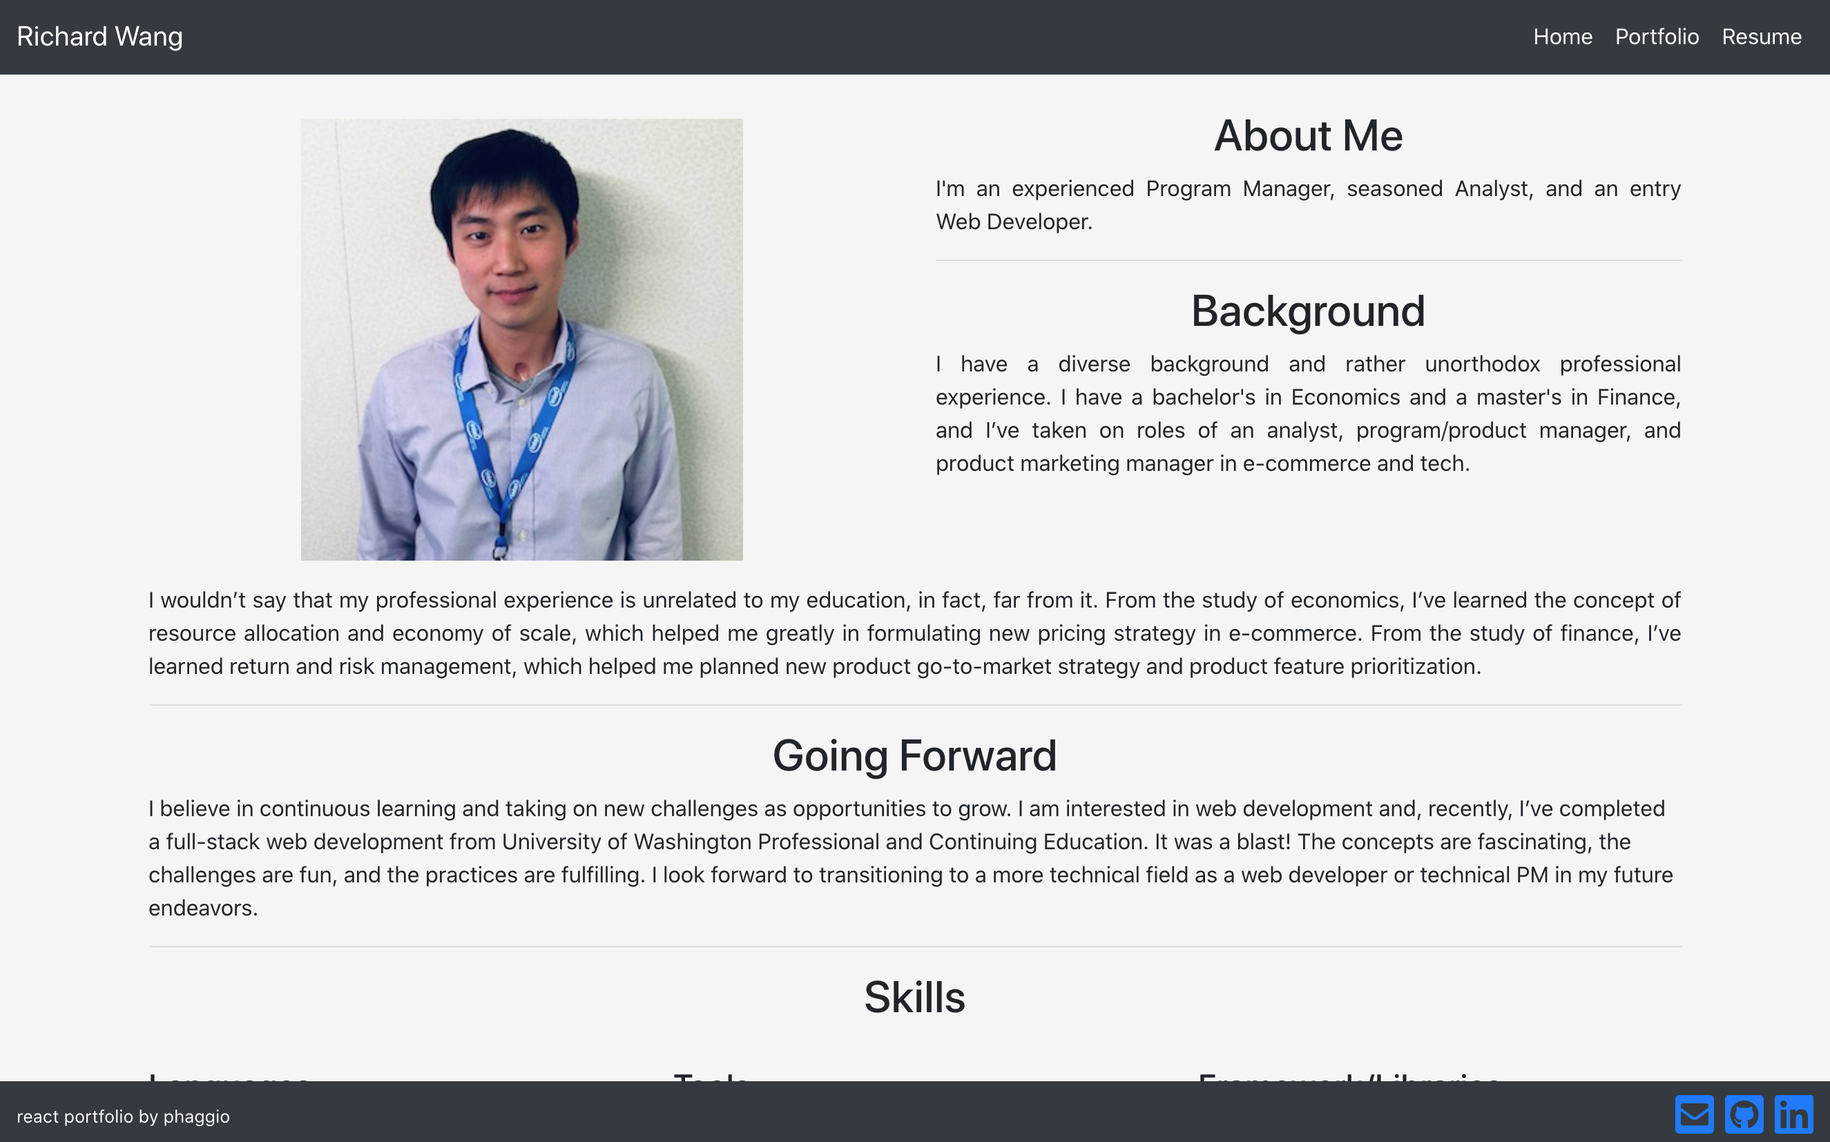
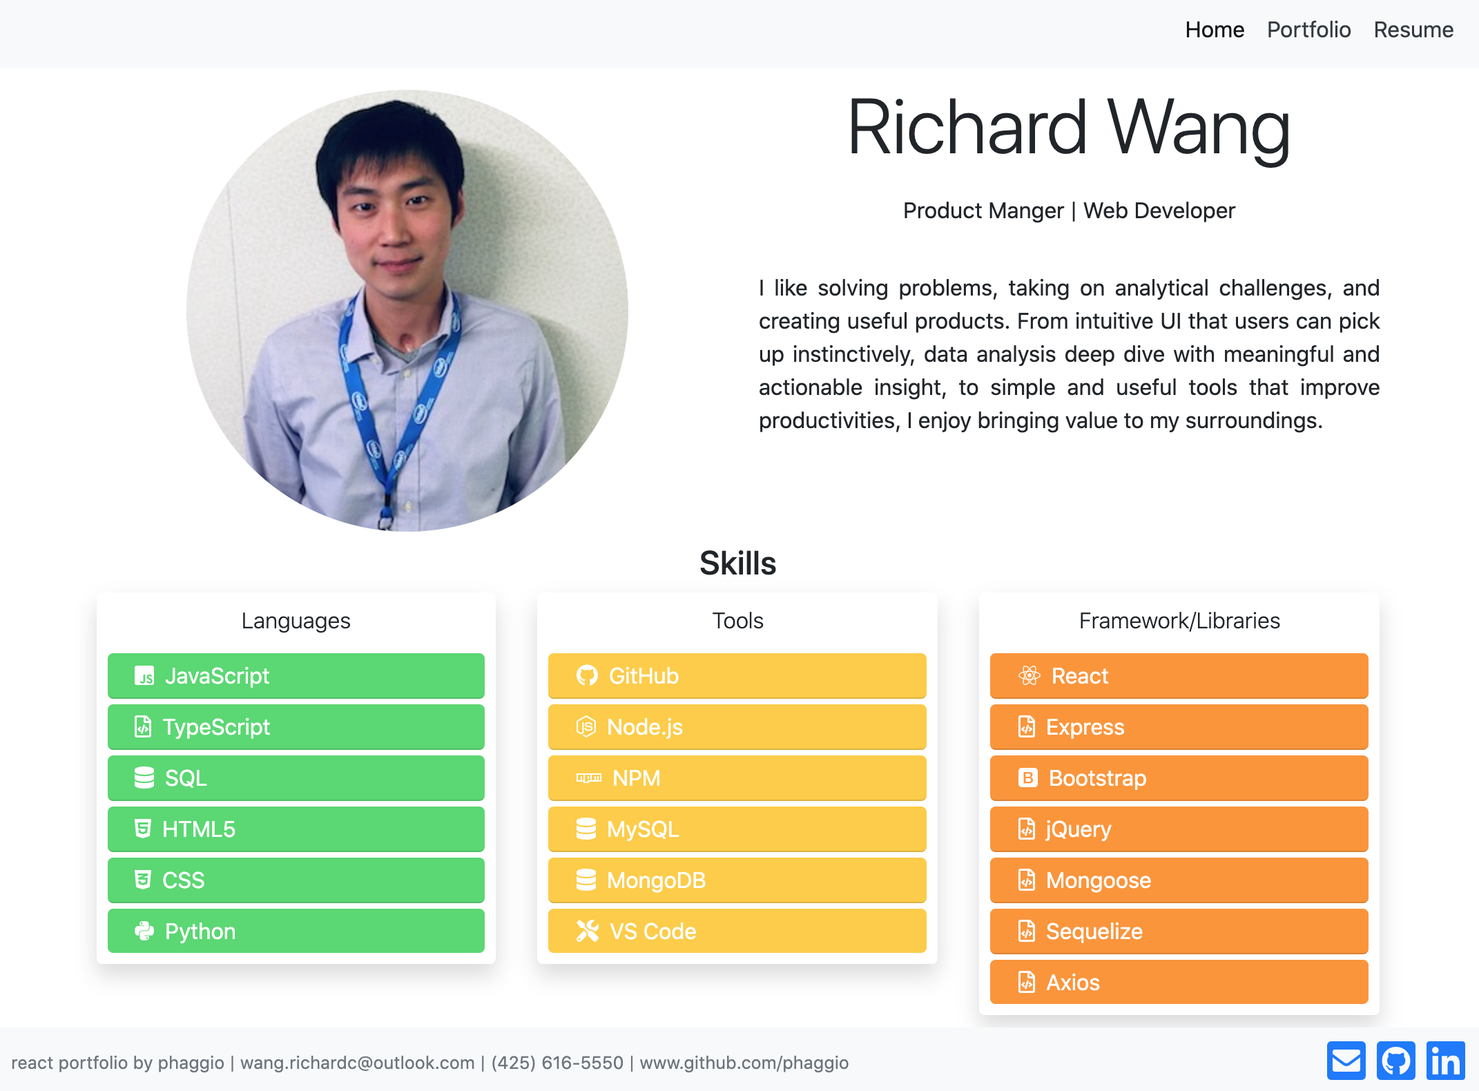
Updates

diff --git a/static/js/main.678d88fd.chunk.js b/static/js/main.678d88fd.chunk.js
@@ -1,0 +1,2 @@
+(this["webpackJsonpreact-portfolio"]=this["webpackJsonpreact-portfolio"]||[]).push([[0],{14:function(e){e.exports=JSON.parse('[{"email":"wang.richardc@outlook.com","linkedIn":"https://www.linkedin.com/in/richard-c-wang/","github":"https://github.com/phaggio","portfolio":"https://phaggio.github.io/react-portfolio/"}]')},15:function(e){e.exports=JSON.parse('[{"aboutMe":"An experienced Program Manager, seasoned Analyst, and entry Web Developer.","background1":"I like solving problems, taking on analytical challenges, and creating useful products. From intuitive UI that users can pick up instinctively, data analysis deep dive with meaningful and actionable insight, to simple and useful tools that improve productivities, I enjoy bringing value to my surroundings.","languages":[{"name":"JavaScript","type":"language","icon":"fab fa-js-square"},{"name":"TypeScript","type":"language","icon":"far fa-file-code"},{"name":"SQL","type":"language","icon":"fas fa-database"},{"name":"HTML5","type":"language","icon":"fab fa-html5"},{"name":"CSS","type":"language","icon":"fab fa-css3-alt"},{"name":"Python","type":"language","icon":"fab fa-python"}],"tools":[{"name":"GitHub","type":"tool","icon":"fab fa-github"},{"name":"Node.js","type":"tool","icon":"fab fa-node-js"},{"name":"NPM","type":"tool","icon":"fab fa-npm"},{"name":"MySQL","type":"tool","icon":"fas fa-database"},{"name":"MongoDB","type":"tool","icon":"fas fa-database"},{"name":"VS Code","type":"tool","icon":"fas fa-tools"}],"libraries":[{"name":"React","type":"framework","icon":"fab fa-react"},{"name":"Express","type":"framework","icon":"far fa-file-code"},{"name":"Bootstrap","type":"framework","icon":"fab fa-bootstrap"},{"name":"jQuery","type":"framework","icon":"far fa-file-code"},{"name":"Mongoose","type":"framework","icon":"far fa-file-code"},{"name":"Sequelize","type":"framework","icon":"far fa-file-code"},{"name":"Axios","type":"framework","icon":"far fa-file-code"}]}]')},16:function(e){e.exports=JSON.parse('[{"name":"resume","link":"https://docs.google.com/gview?url=https://github.com/phaggio/resume/raw/master/Richard-Wang-dev.pdf&embedded=true","download":"https://github.com/phaggio/resume/raw/master/Richard-Wang-dev.pdf"}]')},24:function(e,a,t){e.exports=t(35)},35:function(e,a,t){"use strict";t.r(a);var n=t(0),o=t.n(n),r=t(20),l=t.n(r),c=(t(29),t(30),t(7)),s=t(5),i=t(11),m=t.n(i),p=function(){var e=function(){m()(".navbar-collapse").collapse("hide")};return o.a.createElement("nav",{className:"navbar navbar-expand-sm sticky-top navbar-light bg-light",role:"navigation"},o.a.createElement("button",{className:"navbar-toggler",type:"button","data-toggle":"collapse","data-target":"#navbarSupportedContent","aria-controls":"navbarSupportedContent","aria-expanded":"false","aria-label":"Toggle navigation"},o.a.createElement("span",{className:"navbar-toggler-icon"})),o.a.createElement("div",{className:"collapse navbar-collapse",id:"navbarSupportedContent"},o.a.createElement("div",{className:"navbar-nav ml-auto",role:"navigation"},o.a.createElement(c.b,{className:"nav-item nav-link text-dark",onClick:e,to:"/"},"Home"),o.a.createElement(c.b,{className:"nav-item nav-link text-dark",onClick:e,to:"/portfolio/"},"Portfolio"),o.a.createElement(c.b,{className:"nav-item nav-link text-dark",onClick:e,to:"/resume/"},"Resume"))))},f=t(14),d=f?f[0]:{},u=function(){return o.a.createElement("nav",{className:"navbar fixed-bottom bg-light justify-content-between"},o.a.createElement("small",{className:"text-secondary text-center"},"react portfolio by phaggio | wang.richardc@outlook.com | (425) 616-5550 | www.github.com/phaggio"),o.a.createElement("div",{className:"d-flex"},o.a.createElement("a",{className:"nav-item nav-link p-0 ml-2",href:"mailto:".concat(d.email)},o.a.createElement("i",{className:"fas fa-envelope-square fa-2x"})),o.a.createElement("a",{className:"nav-item nav-link p-0 ml-2",href:d.github,rel:"noopener noreferrer",target:"_blank"},o.a.createElement("i",{className:"fab fa-github-square fa-2x"})),o.a.createElement("a",{className:"nav-item nav-link p-0 ml-2",href:d.linkedIn,rel:"noopener noreferrer",target:"_blank"},o.a.createElement("i",{className:"fab fa-linkedin fa-2x"}))))},g=function(e){var a=function(e){switch(e){case"language":return{backgroundColor:"#53d769",color:"white"};case"framework":return{backgroundColor:"#fd9426",color:"white"};case"tool":return{backgroundColor:"#fecb2e",color:"white"}}}(e.type);return o.a.createElement("li",{className:"list-group-item mt-1 rounded py-1",style:a,key:e.name},o.a.createElement("i",{className:"".concat(e.icon," mr-2")}),e.name)},h=t(15),b={maxHeight:"30%",width:"30%%"},y=function(){var e=h?h[0]:{};return o.a.createElement("div",{className:"container pb-5"},o.a.createElement("div",{className:"row pb-5"},o.a.createElement("div",{className:"col-12 col-md-6"},o.a.createElement("div",{className:"d-flex justify-content-center mt-2"},o.a.createElement("img",{className:"rounded-circle py-2",alt:"profile",src:"".concat("/react-portfolio","/assets/images/profile.jpeg"),style:b}))),o.a.createElement("div",{className:"col-12 col-md-6"},o.a.createElement("div",{className:"d-flex flex-column mt-2"},o.a.createElement("div",{className:"text-center display-4"},"Richard Wang"),o.a.createElement("div",{className:"py-2"},o.a.createElement("div",{className:"text-center py-2"},o.a.createElement("p",null,"Product Manger | Web Developer")),o.a.createElement("div",{className:"pt-2"},o.a.createElement("p",{className:"text-justify"},e.background1),o.a.createElement("p",{className:"text-justify"},e.background2))))),o.a.createElement("div",{className:"col-12"},o.a.createElement("div",{className:"d-flex justify-content-center"},o.a.createElement("label",{className:"h4"},"Skills"))),o.a.createElement("div",{className:"col-12 col-md-4"},o.a.createElement("div",{className:"d-flex flex-column align-items-center p-2 shadow rounded"},o.a.createElement("label",{className:"text-center text-md-left font-weight-light"},"Languages"),o.a.createElement("ul",{className:"list-group list-group-flush w-100"},e.languages.map((function(e){return o.a.createElement(g,{key:e.name,type:e.type,icon:e.icon,name:e.name})}))))),o.a.createElement("div",{className:"col-12 col-md-4"},o.a.createElement("div",{className:"d-flex flex-column align-items-center p-2 shadow rounded"},o.a.createElement("label",{className:"text-center text-md-left font-weight-light"},"Tools"),o.a.createElement("ul",{className:"list-group list-group-flush w-100"},e.tools.map((function(e){return o.a.createElement(g,{key:e.name,type:e.type,icon:e.icon,name:e.name})}))))),o.a.createElement("div",{className:"col-12 col-md-4"},o.a.createElement("div",{className:"d-flex flex-column align-items-center p-2 shadow rounded "},o.a.createElement("label",{className:"text-center text-md-left font-weight-light"},"Framework/Libraries"),o.a.createElement("ul",{className:"list-group list-group-flush w-100"},e.libraries.map((function(e){return o.a.createElement(g,{key:e.name,type:e.type,icon:e.icon,name:e.name})})))))))},v=t(23),E={minWidth:"120px",backgroundColor:"#5fc9f8",color:"white"},k=function(e){return o.a.createElement("div",{className:"d-flex flex-column justify-content-center mx-1 mx-lg-0 my-lg-1 btn btn-sm",style:E,onClick:function(){return e.pressed(e.index)}},o.a.createElement("label",{className:"m-0 p-1 text-wrap"},e.name),o.a.createElement("small",{className:"d-none d-lg-block text-left"},e.subtitle))},w={height:"100%",width:"100%"},N=function(e){return o.a.createElement("div",null,o.a.createElement("div",{className:"row pb-5"},o.a.createElement("div",{className:"col-12"},o.a.createElement("div",{className:"d-none d-sm-block display-4 text-center"},e.project.name),o.a.createElement("div",{className:"d-block d-sm-none h3 text-center"},e.project.name),o.a.createElement("hr",null),o.a.createElement("p",{className:"mt-2"},e.project.description),e.project.note?o.a.createElement("p",{className:"mt-2"},e.project.note):"",o.a.createElement("hr",{className:"d-block"})),o.a.createElement("div",{className:"col-12 col-md-6 col-lg-7"},o.a.createElement("div",{className:"shadow rounded p-2"},o.a.createElement("label",{className:"font-weight-light"},"Screenshot"),o.a.createElement("img",{style:w,alt:"".concat(e.project.name," screenshot"),src:"".concat("/react-portfolio").concat(e.project.imgURL)}))),o.a.createElement("div",{className:"col-12 col-md-6 col-lg-5"},o.a.createElement("div",{className:"mb-sm-2 shadow rounded p-2"},o.a.createElement("label",{className:"font-weight-light"},"Links:"),o.a.createElement("div",{className:"d-flex flex-column align-items-center"},e.project.link?o.a.createElement("a",{className:"my-1 btn btn-primary w-75",rel:"noopener noreferrer",href:e.project.link,target:"_blank"},o.a.createElement("div",{className:"d-flex justify-content-center align-items-center"},o.a.createElement("i",{className:"fas fa-window-maximize"}),o.a.createElement("p",{className:"p-0 my-0 ml-2"},"Application"))):"",o.a.createElement("a",{className:"my-1 btn btn-info w-75",rel:"noopener noreferrer",href:e.project.github,target:"_blank"},o.a.createElement("div",{className:"d-flex justify-content-center align-items-center"},o.a.createElement("i",{className:"fab fa-github-square"}),o.a.createElement("p",{className:"p-0 my-0 ml-2"},"GitHub Page"))))),o.a.createElement("div",{className:"shadow rounded p-2"},o.a.createElement("label",{className:"font-weight-light"},"Technologies:"),o.a.createElement("ul",{className:"list-group list-group-flush"},e.project.technologies?e.project.technologies.map((function(e){return o.a.createElement(g,{key:e.name,name:e.name,icon:e.icon,type:e.type})})):"")))))},x=t(9),j={maxHeight:"80vh",overflowX:"auto",overflowY:"auto"},S=function(){var e=Object(n.useState)(x[0]),a=Object(v.a)(e,2),t=a[0],r=a[1],l=function(e){var a=x[e];r(a)};return o.a.createElement("div",{className:"container pb-5"},o.a.createElement("div",{className:"row"},o.a.createElement("div",{className:"col-12 d-lg-none"},o.a.createElement("div",{className:"d-flex flex-column justify-content-center mt-4"},o.a.createElement("label",{className:"text-dark font-weight-light text-center"},"Projects"),o.a.createElement("div",{className:"d-flex",style:j},x.map((function(e,a){return o.a.createElement(k,{key:e.name,index:a,name:e.name,subtitle:e.subtitle,pressed:l})}))))),o.a.createElement("div",{className:"d-none d-lg-block col-lg-3 col-xl-3"},o.a.createElement("div",{className:"d-flex flex-column mt-4"},o.a.createElement("label",{className:"text-dark font-weight-light"},"Projects:"),o.a.createElement("div",{className:"d-flex flex-column align-items-center",style:j},x.map((function(e,a){return o.a.createElement(k,{key:e.name,index:a,name:e.name,subtitle:e.subtitle,pressed:l})}))))),o.a.createElement("div",{className:"col-12 col-lg-9 col-xl-9"},o.a.createElement("div",{className:"mt-4"},o.a.createElement(N,{project:t})))))},R=t(16),T={height:"80vh",width:"100%"},L=function(){return o.a.createElement("div",{className:"container vh-75"},o.a.createElement("div",{className:"row mt-2 pb-5"},o.a.createElement("div",{className:"embed-responsive embed-responsive-4by3 z-depth-1-half",style:T},o.a.createElement("iframe",{className:"embed-responsive-item",src:R[0].link,title:"Richard Wang"})),o.a.createElement("div",{className:"btn btn-primary bt-sm mt-1 mb-5",href:R[0].download},"Download")))};var C=function(){return o.a.createElement(c.a,null,o.a.createElement(p,null),o.a.createElement(s.c,null,o.a.createElement(s.a,{exact:!0,path:"/",component:y}),o.a.createElement(s.a,{exact:!0,path:"/portfolio",component:S}),o.a.createElement(s.a,{exact:!0,path:"/resume",component:L})),o.a.createElement(u,null))};Boolean("localhost"===window.location.hostname||"[::1]"===window.location.hostname||window.location.hostname.match(/^127(?:\.(?:25[0-5]|2[0-4][0-9]|[01]?[0-9][0-9]?)){3}$/));l.a.render(o.a.createElement(o.a.StrictMode,null,o.a.createElement(C,null)),document.getElementById("root")),"serviceWorker"in navigator&&navigator.serviceWorker.ready.then((function(e){e.unregister()})).catch((function(e){console.error(e.message)}))},9:function(e){e.exports=JSON.parse('[{"name":"Project Tracker","subtitle":"A MERN stack web application to track project progress.","description":"This is a full stack web application, where users can track the progress of their projects. User can create project and assign various type of work items to it. Furthermore, work items can be assigned to users in the database.","note":"The application is developed using TypeScript. It is hosted on Heroku. The database is connected to cloud.mongodb.com","link":"https://phaggio-project-tracker.herokuapp.com/","github":"https://github.com/phaggio/project-tracker","imgURL":"/assets/images/projects/project-tracker.png","technologies":[{"name":"TypeScript","type":"language","icon":"fab fa-js-square"},{"name":"MongoDB","type":"tool","icon":"fas fa-database"},{"name":"Express.js","type":"framework","icon":"far fa-file-code"},{"name":"React","type":"framework","icon":"fab fa-react"},{"name":"Node.js","type":"tool","icon":"fab fa-node-js"},{"name":"Bootstrap","type":"framework","icon":"fab fa-bootstrap"},{"name":"Font Awesome","type":"framework","icon":"fab fa-font-awesome"}]},{"name":"Simple Weather","subtitle":"A installable progressive web app built using React.js.","description":"This is a single page app, where user can check weather condition of a city or current location. This is a progressive web app, where user can install this app on to their mobile or desktop devices. The app also offers unit type preference and dark mode in the settings.","note":"Click on the plus (\'+\') button in browser search bar to install the app. If you\'re using it on mobile device, make sure you allow your browser to use your current geo-location.","link":"https://phaggio.github.io/simple-weather/","github":"https://github.com/phaggio/simple-weather","imgURL":"/assets/images/projects/simple-weather.png","technologies":[{"name":"JavaScript","type":"language","icon":"fab fa-js-square"},{"name":"React","type":"framework","icon":"fab fa-react"},{"name":"Moment.js","type":"framework","icon":"far fa-file-code"},{"name":"Bootstrap","type":"framework","icon":"fab fa-bootstrap"},{"name":"LocalStorage","type":"tool","icon":"fas fa-database"},{"name":"Google Font","type":"framework","icon":"fab fa-google"}]},{"name":"React Portfolio","subtitle":"A three page web app built using JavaScript and React.js","description":"This is web app about myself, personal projects in portfolio, and a link to my resume. In the \'about me\' page, you\'ll find a little bit information about my background and skillset. In the \'portfolio\' page, you\'ll see the list of projects I\'ve worked on and the tech stack I used. Lastly, in the \'resume\' page, you can see my developer resume. ","note":"Try resizing the browser or view it on mobile device. The UI layout will adapt to the size of display for your convenience.","link":"https://phaggio.github.io/react-portfolio/","github":"https://github.com/phaggio/react-portfolio","imgURL":"/assets/images/projects/react-portfolio.png","technologies":[{"name":"JavaScript","type":"language","icon":"fab fa-js-square"},{"name":"React","type":"framework","icon":"fab fa-react"},{"name":"Bootstrap","type":"framework","icon":"fab fa-bootstrap"},{"name":"Font Awesome","type":"framework","icon":"fab fa-font-awesome"}]},{"name":"Employee Tracker","subtitle":"A CLI application where user can access local mysql database.","description":"This is a sample CLI application that user can add/edit/remove employees, roles, and teams from a database within the organization.","github":"https://github.com/phaggio/employee-tracker","imgURL":"/assets/images/projects/employee-tracker.png","technologies":[{"name":"JavaScript","type":"language","icon":"fab fa-js-square"},{"name":"console.table","type":"framework","icon":"far fa-file-code"},{"name":"inquirer.js","type":"framework","icon":"far fa-file-code"},{"name":"MySQL","type":"tool","icon":"fas fa-database"}]},{"name":"Order Up","subtitle":"A full-stack application for restaurant owner and employees.","description":"This is a full-stack application, using the MERN stack (MongoDB, Express.js, React, Node.js). Restaurant owner can add/edit/remove restaurant employees, menu items, and inventories. Employees such as servers and chefs can use the front end UI to take customer orders, pass them to chef for preparation, and check off the orders once they\'re made.","link":"https://order-up-jkrtr.herokuapp.com/","github":"https://github.com/phaggio/order-up","imgURL":"/assets/images/projects/order-up.png","technologies":[{"name":"JavaScript","type":"language","icon":"fab fa-js-square"},{"name":"MongoDB","type":"tool","icon":"fas fa-database"},{"name":"Express.js","type":"framework","icon":"far fa-file-code"},{"name":"React","type":"framework","icon":"fab fa-react"},{"name":"Node.js","type":"tool","icon":"fab fa-node-js"},{"name":"Bootstrap","type":"framework","icon":"fab fa-bootstrap"}]}]')}},[[24,1,2]]]);
+//# sourceMappingURL=main.678d88fd.chunk.js.map

diff --git a/index.html b/index.html
@@ -1,1 +1,1 @@
-<!doctype html><html lang="en"><head><meta charset="utf-8"/><link rel="icon" href="/react-portfolio/logo16.png"/><meta name="viewport" content="width=device-width,initial-scale=1"/><meta name="theme-color" content="#000000"/><meta name="description" content="Richard Wang portfolio"/><link rel="apple-touch-icon" href="/react-portfolio/logo180.png"/><link rel="manifest" href="/react-portfolio/manifest.json"/><script src="https://kit.fontawesome.com/1580a15be6.js" crossorigin="anonymous"></script><title>Richard Wang</title><link href="/react-portfolio/static/css/2.8aa5a7f8.chunk.css" rel="stylesheet"></head><body><noscript>You need to enable JavaScript to run this app.</noscript><div id="root"></div><script>!function(e){function r(r){for(var n,l,f=r[0],i=r[1],a=r[2],c=0,s=[];c<f.length;c++)l=f[c],Object.prototype.hasOwnProperty.call(o,l)&&o[l]&&s.push(o[l][0]),o[l]=0;for(n in i)Object.prototype.hasOwnProperty.call(i,n)&&(e[n]=i[n]);for(p&&p(r);s.length;)s.shift()();return u.push.apply(u,a||[]),t()}function t(){for(var e,r=0;r<u.length;r++){for(var t=u[r],n=!0,f=1;f<t.length;f++){var i=t[f];0!==o[i]&&(n=!1)}n&&(u.splice(r--,1),e=l(l.s=t[0]))}return e}var n={},o={1:0},u=[];function l(r){if(n[r])return n[r].exports;var t=n[r]={i:r,l:!1,exports:{}};return e[r].call(t.exports,t,t.exports,l),t.l=!0,t.exports}l.m=e,l.c=n,l.d=function(e,r,t){l.o(e,r)||Object.defineProperty(e,r,{enumerable:!0,get:t})},l.r=function(e){"undefined"!=typeof Symbol&&Symbol.toStringTag&&Object.defineProperty(e,Symbol.toStringTag,{value:"Module"}),Object.defineProperty(e,"__esModule",{value:!0})},l.t=function(e,r){if(1&r&&(e=l(e)),8&r)return e;if(4&r&&"object"==typeof e&&e&&e.__esModule)return e;var t=Object.create(null);if(l.r(t),Object.defineProperty(t,"default",{enumerable:!0,value:e}),2&r&&"string"!=typeof e)for(var n in e)l.d(t,n,function(r){return e[r]}.bind(null,n));return t},l.n=function(e){var r=e&&e.__esModule?function(){return e.default}:function(){return e};return l.d(r,"a",r),r},l.o=function(e,r){return Object.prototype.hasOwnProperty.call(e,r)},l.p="/react-portfolio/";var f=this["webpackJsonpreact-portfolio"]=this["webpackJsonpreact-portfolio"]||[],i=f.push.bind(f);f.push=r,f=f.slice();for(var a=0;a<f.length;a++)r(f[a]);var p=i;t()}([])</script><script src="/react-portfolio/static/js/2.a6bfb7c6.chunk.js"></script><script src="/react-portfolio/static/js/main.7df2aabf.chunk.js"></script></body></html>
+<!doctype html><html lang="en"><head><meta charset="utf-8"/><link rel="icon" href="/react-portfolio/logo16.png"/><meta name="viewport" content="width=device-width,initial-scale=1"/><meta name="theme-color" content="#000000"/><meta name="description" content="Richard Wang portfolio"/><link rel="apple-touch-icon" href="/react-portfolio/logo180.png"/><link rel="manifest" href="/react-portfolio/manifest.json"/><script src="https://kit.fontawesome.com/1580a15be6.js" crossorigin="anonymous"></script><title>Richard Wang</title><link href="/react-portfolio/static/css/2.8aa5a7f8.chunk.css" rel="stylesheet"></head><body><noscript>You need to enable JavaScript to run this app.</noscript><div id="root"></div><script>!function(e){function r(r){for(var n,l,f=r[0],i=r[1],a=r[2],c=0,s=[];c<f.length;c++)l=f[c],Object.prototype.hasOwnProperty.call(o,l)&&o[l]&&s.push(o[l][0]),o[l]=0;for(n in i)Object.prototype.hasOwnProperty.call(i,n)&&(e[n]=i[n]);for(p&&p(r);s.length;)s.shift()();return u.push.apply(u,a||[]),t()}function t(){for(var e,r=0;r<u.length;r++){for(var t=u[r],n=!0,f=1;f<t.length;f++){var i=t[f];0!==o[i]&&(n=!1)}n&&(u.splice(r--,1),e=l(l.s=t[0]))}return e}var n={},o={1:0},u=[];function l(r){if(n[r])return n[r].exports;var t=n[r]={i:r,l:!1,exports:{}};return e[r].call(t.exports,t,t.exports,l),t.l=!0,t.exports}l.m=e,l.c=n,l.d=function(e,r,t){l.o(e,r)||Object.defineProperty(e,r,{enumerable:!0,get:t})},l.r=function(e){"undefined"!=typeof Symbol&&Symbol.toStringTag&&Object.defineProperty(e,Symbol.toStringTag,{value:"Module"}),Object.defineProperty(e,"__esModule",{value:!0})},l.t=function(e,r){if(1&r&&(e=l(e)),8&r)return e;if(4&r&&"object"==typeof e&&e&&e.__esModule)return e;var t=Object.create(null);if(l.r(t),Object.defineProperty(t,"default",{enumerable:!0,value:e}),2&r&&"string"!=typeof e)for(var n in e)l.d(t,n,function(r){return e[r]}.bind(null,n));return t},l.n=function(e){var r=e&&e.__esModule?function(){return e.default}:function(){return e};return l.d(r,"a",r),r},l.o=function(e,r){return Object.prototype.hasOwnProperty.call(e,r)},l.p="/react-portfolio/";var f=this["webpackJsonpreact-portfolio"]=this["webpackJsonpreact-portfolio"]||[],i=f.push.bind(f);f.push=r,f=f.slice();for(var a=0;a<f.length;a++)r(f[a]);var p=i;t()}([])</script><script src="/react-portfolio/static/js/2.a6bfb7c6.chunk.js"></script><script src="/react-portfolio/static/js/main.678d88fd.chunk.js"></script></body></html>

diff --git a/precache-manifest.023b5f25de28fc3a5b24dfbd36fb52c5.js b/precache-manifest.023b5f25de28fc3a5b24dfbd36fb52c5.js
@@ -1,6 +1,6 @@
 self.__precacheManifest = (self.__precacheManifest || []).concat([
   {
-    "revision": "bd5e04f295640e47d32f707da6115f28",
+    "revision": "afe22ae92f9db4104aa4baa37272512f",
     "url": "/react-portfolio/index.html"
   },
   {
@@ -16,8 +16,8 @@ self.__precacheManifest = (self.__precacheManifest || []).concat([
     "url": "/react-portfolio/static/js/2.a6bfb7c6.chunk.js.LICENSE.txt"
   },
   {
-    "revision": "4bf9bfef6e45f0aa03ab",
-    "url": "/react-portfolio/static/js/main.7df2aabf.chunk.js"
+    "revision": "a16f0d9d54a9440be0d1",
+    "url": "/react-portfolio/static/js/main.678d88fd.chunk.js"
   },
   {
     "revision": "aff33cef9dbb8787d6b3",

diff --git a/service-worker.js b/service-worker.js
@@ -14,7 +14,7 @@
 importScripts("https://storage.googleapis.com/workbox-cdn/releases/4.3.1/workbox-sw.js");
 
 importScripts(
-  "/react-portfolio/precache-manifest.b2c6d2b646c6f432c3822d3d65891e14.js"
+  "/react-portfolio/precache-manifest.023b5f25de28fc3a5b24dfbd36fb52c5.js"
 );
 
 self.addEventListener('message', (event) => {
